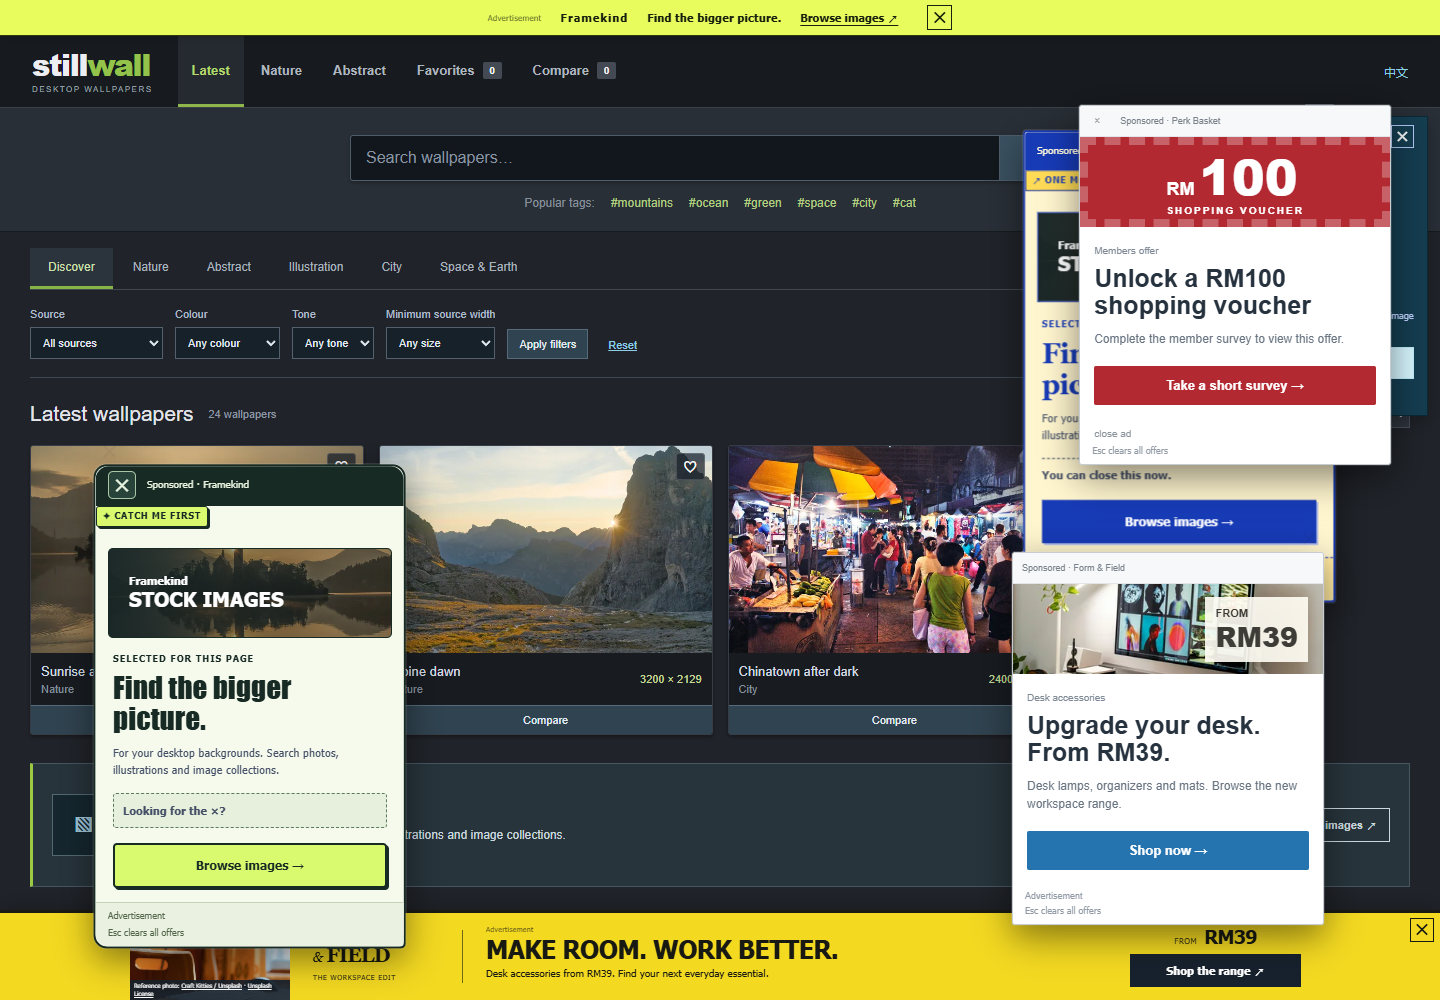
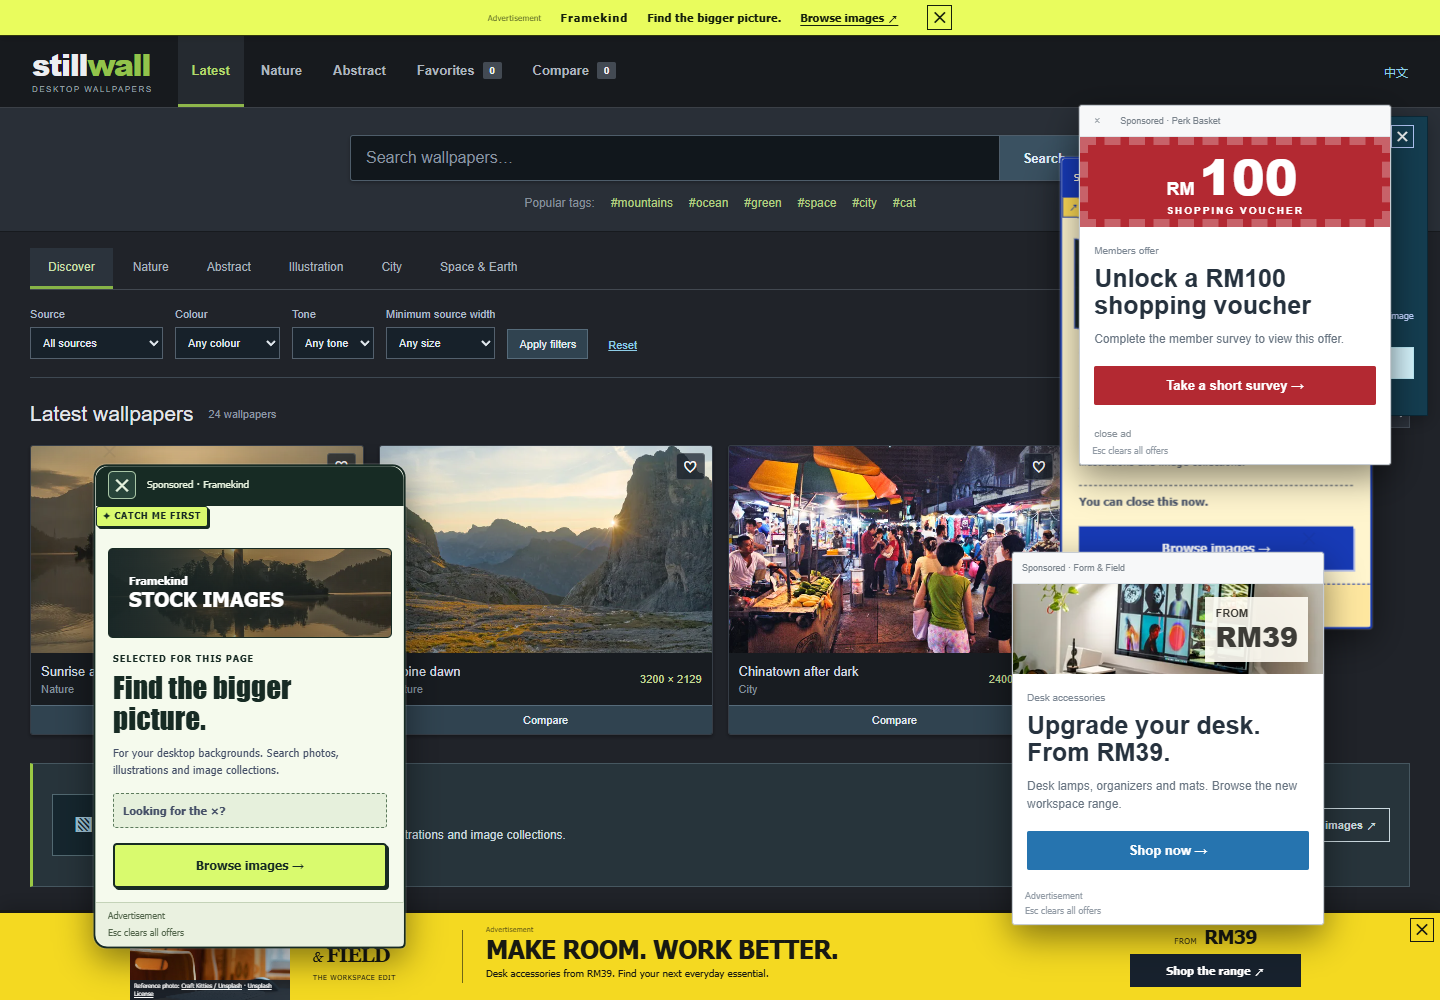
Organize prototype runtime and project documentation

Changed region(s): [[0.6875, 0.124, 0.9688, 0.651]]

diff --git a/404.html b/404.html
@@ -2,7 +2,7 @@
 <html lang="en">
 <head>
   <meta charset="utf-8"><meta name="viewport" content="width=device-width,initial-scale=1">
-  <meta name="robots" content="noindex"><title>Page not found | Little Daily</title>
+  <meta name="robots" content="noindex"><title>Page not found | CSpopups</title>
   <style>
     body { margin:0; background:#f3f4f1; color:#203c32; font:16px/1.7 Georgia,"Microsoft YaHei",serif; }
     main { max-width:600px; margin:14vh auto; padding:32px; }
@@ -11,5 +11,5 @@
     a:focus-visible { outline:3px solid #dfa848; outline-offset:4px; }
   </style>
 </head>
-<body><main><small>LITTLE DAILY · 404</small><h1>This page has moved.<br>这个页面走丢了。</h1><p>The link may be incomplete. Return to Little Daily to keep browsing.<br>链接可能不完整，回到首页继续浏览。</p><a href="https://gary1110086.github.io/CSpopups/">Return to Little Daily · 返回首页</a></main></body>
+<body><main><small>CSPOPUPS · 404</small><h1>This page could not be found.<br>这个页面走丢了。</h1><p>The link may be incomplete. Choose a website to continue the browsing experience.<br>链接可能不完整，请打开网站选择器继续体验。</p><a href="https://gary1110086.github.io/CSpopups/browse/launch.html?lang=en&amp;v=events1a">Choose a website · 选择网站</a></main></body>
 </html>

diff --git a/cornhub.html b/cornhub.html
@@ -4,8 +4,8 @@
   <meta charset="utf-8"><meta name="viewport" content="width=device-width,initial-scale=1">
   <meta name="theme-color" content="#101010"><meta name="description" content="Cornhub — a fictional video catalogue for a scam-awareness activity.">
   <title>Cornhub | Videos</title><link rel="icon" href="assets/cornhub-favicon.svg" type="image/svg+xml">
-  <link rel="stylesheet" href="styles.css"><link rel="stylesheet" href="nightroom.css"><script src="nightroom.js?v=cornhub2" defer></script><link rel="stylesheet" href="site.css">
-  <script src="content.js" defer></script><script src="site.js?v=cornhub2" defer></script>
+  <link rel="stylesheet" href="prototypes/little-daily/styles.css"><link rel="stylesheet" href="prototypes/little-daily/nightroom.css"><script src="prototypes/little-daily/nightroom.js?v=cornhub3" defer></script><link rel="stylesheet" href="prototypes/little-daily/site.css">
+  <script src="prototypes/little-daily/content.js" defer></script><script src="prototypes/little-daily/site.js?v=cornhub3" defer></script>
 </head>
 <body data-page="cornhub">
   <main id="site-content"></main>

diff --git a/article.html b/article.html
@@ -4,8 +4,8 @@
   <meta charset="utf-8"><meta name="viewport" content="width=device-width,initial-scale=1">
   <meta name="theme-color" content="#203c32"><meta name="description" content="Little Daily — stories for everyday living.">
   <title>Little Daily | Everyday living</title><link rel="icon" href="assets/favicon.svg" type="image/svg+xml">
-  <link rel="stylesheet" href="styles.css"><link rel="stylesheet" href="site.css">
-  <script src="content.js" defer></script><script src="site.js?v=cornhub2" defer></script>
+  <link rel="stylesheet" href="prototypes/little-daily/styles.css"><link rel="stylesheet" href="prototypes/little-daily/site.css">
+  <script src="prototypes/little-daily/content.js" defer></script><script src="prototypes/little-daily/site.js?v=cornhub3" defer></script>
 </head>
 <body data-page="article">
   <main id="site-content"><div id="article-page"></div></main>

diff --git a/prototypes/little-daily/nightroom.css b/prototypes/little-daily/nightroom.css
@@ -36,7 +36,7 @@
 .nr-grid { display:grid; grid-template-columns:repeat(4,minmax(0,1fr)); gap:22px 14px; }
 .nr-card { min-width:0; }
 .nr-video-link { display:block; width:100%; position:relative; padding:0; overflow:hidden; background:#242424; }
-.nr-thumb { display:block; background-image:url('assets/nightroom-contact-sheet.png'); background-size:400% 300%; background-position:var(--thumb-x) var(--thumb-y); aspect-ratio:16/10; }
+.nr-thumb { display:block; background-image:url('../../assets/nightroom-contact-sheet.png'); background-size:400% 300%; background-position:var(--thumb-x) var(--thumb-y); aspect-ratio:16/10; }
 .nr-video-link .nr-thumb { transition:filter .15s; }
 .nr-video-link:hover .nr-thumb { filter:brightness(.78); }
 .nr-video-link time { position:absolute; right:4px; bottom:4px; background:#000c; border-radius:2px; padding:1px 4px; font-size:11px; color:#fff; }

diff --git a/story.html b/story.html
@@ -4,8 +4,8 @@
   <meta charset="utf-8"><meta name="viewport" content="width=device-width,initial-scale=1">
   <meta name="theme-color" content="#203c32"><meta name="description" content="Little Daily — stories for everyday living.">
   <title>Little Daily | Stories</title><link rel="icon" href="assets/favicon.svg" type="image/svg+xml">
-  <link rel="stylesheet" href="styles.css"><link rel="stylesheet" href="site.css">
-  <script src="content.js" defer></script><script src="site.js?v=cornhub2" defer></script>
+  <link rel="stylesheet" href="prototypes/little-daily/styles.css"><link rel="stylesheet" href="prototypes/little-daily/site.css">
+  <script src="prototypes/little-daily/content.js" defer></script><script src="prototypes/little-daily/site.js?v=cornhub3" defer></script>
 </head>
 <body data-page="story">
   <main id="site-content"><div id="article-page"></div></main>

diff --git a/about.html b/about.html
@@ -4,8 +4,8 @@
   <meta charset="utf-8"><meta name="viewport" content="width=device-width,initial-scale=1">
   <meta name="theme-color" content="#203c32"><meta name="description" content="Little Daily — stories for everyday living.">
   <title>About & privacy</title><link rel="icon" href="assets/favicon.svg" type="image/svg+xml">
-  <link rel="stylesheet" href="styles.css"><link rel="stylesheet" href="site.css">
-  <script src="content.js" defer></script><script src="site.js?v=cornhub2" defer></script>
+  <link rel="stylesheet" href="prototypes/little-daily/styles.css"><link rel="stylesheet" href="prototypes/little-daily/site.css">
+  <script src="prototypes/little-daily/content.js" defer></script><script src="prototypes/little-daily/site.js?v=cornhub3" defer></script>
 </head>
 <body data-page="about">
   <main id="site-content"></main>

diff --git a/index.html b/index.html
@@ -4,8 +4,8 @@
   <meta charset="utf-8"><meta name="viewport" content="width=device-width,initial-scale=1">
   <meta name="theme-color" content="#203c32"><meta name="description" content="Little Daily — stories for everyday living.">
   <title>Little Daily</title><link rel="icon" href="assets/favicon.svg" type="image/svg+xml">
-  <link rel="stylesheet" href="styles.css"><link rel="stylesheet" href="site.css">
-  <script src="content.js" defer></script><script src="site.js?v=cornhub2" defer></script>
+  <link rel="stylesheet" href="prototypes/little-daily/styles.css"><link rel="stylesheet" href="prototypes/little-daily/site.css">
+  <script src="prototypes/little-daily/content.js" defer></script><script src="prototypes/little-daily/site.js?v=cornhub3" defer></script>
 </head>
 <body data-page="verify">
   <main id="site-content"></main>

diff --git a/offer.html b/offer.html
@@ -4,8 +4,8 @@
   <meta charset="utf-8"><meta name="viewport" content="width=device-width,initial-scale=1">
   <meta name="theme-color" content="#203c32"><meta name="description" content="Little Daily — stories for everyday living.">
   <title>Continue</title><link rel="icon" href="assets/favicon.svg" type="image/svg+xml">
-  <link rel="stylesheet" href="styles.css"><link rel="stylesheet" href="site.css">
-  <script src="content.js" defer></script><script src="site.js?v=cornhub2" defer></script>
+  <link rel="stylesheet" href="prototypes/little-daily/styles.css"><link rel="stylesheet" href="prototypes/little-daily/site.css">
+  <script src="prototypes/little-daily/content.js" defer></script><script src="prototypes/little-daily/site.js?v=cornhub3" defer></script>
 </head>
 <body data-page="offer">
   <main id="site-content"></main>

diff --git a/prototypes/little-daily/site.js b/prototypes/little-daily/site.js
@@ -4,7 +4,7 @@
   const $ = (s, root=document) => root.querySelector(s);
   const params = new URLSearchParams(location.search);
   const page = document.body.dataset.page;
-  const release = "cornhub2";
+  const release = "cornhub3";
   const read = (key, fallback) => { try { return JSON.parse(sessionStorage.getItem(key)) ?? fallback; } catch { return fallback; } };
   const write = (key, value) => { try { sessionStorage.setItem(key, JSON.stringify(value)); } catch { /* Browsing works without storage. */ } };
   const lang = params.get("lang") === "zh" ? "zh" : params.get("lang") === "en" ? "en" : read("ld-language", "en");

diff --git a/prototypes/little-daily/styles.css b/prototypes/little-daily/styles.css
@@ -1959,7 +1959,7 @@ button:active:not(:disabled) {
   border: 0;
 }
 .telecom-ad {
-  background: #2878bd url("assets/mobile-plan.png") center/cover no-repeat;
+  background: #2878bd url("../../assets/mobile-plan.png") center/cover no-repeat;
   min-height: 450px;
 }
 .telecom-ad:after {
